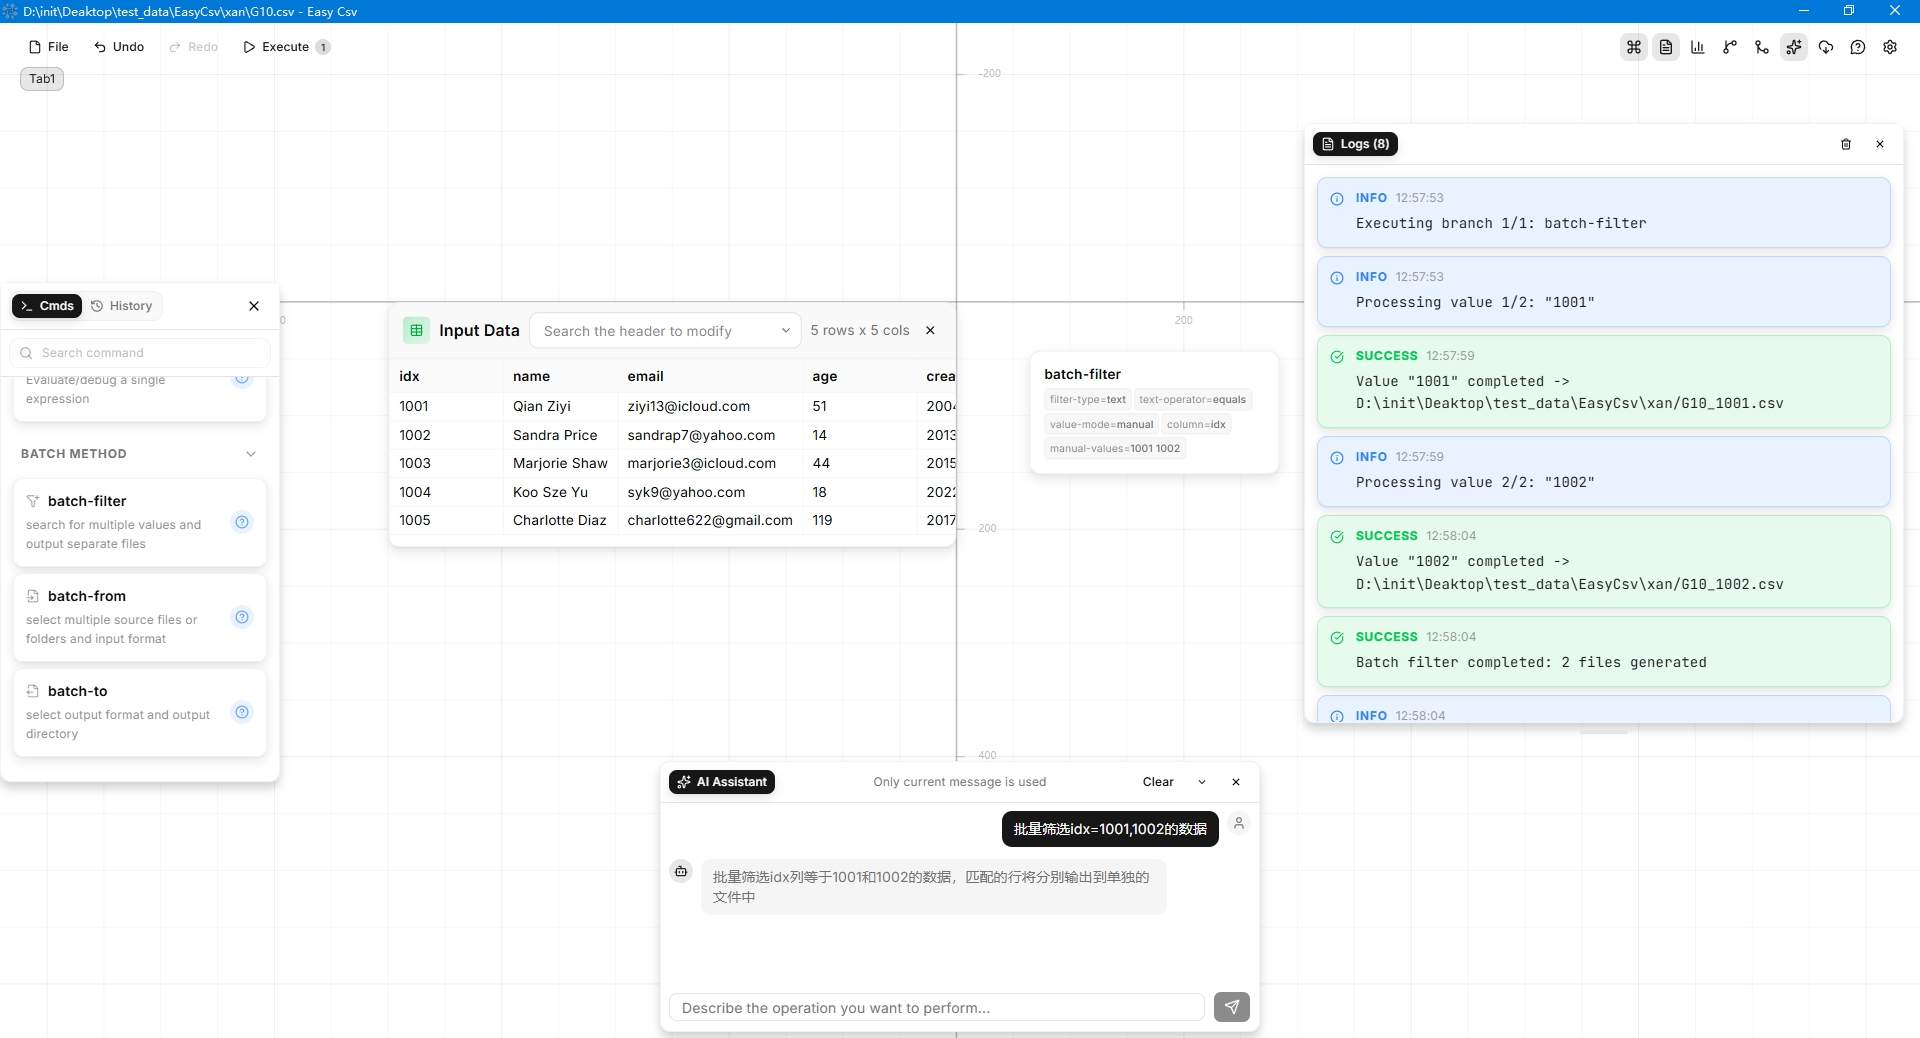
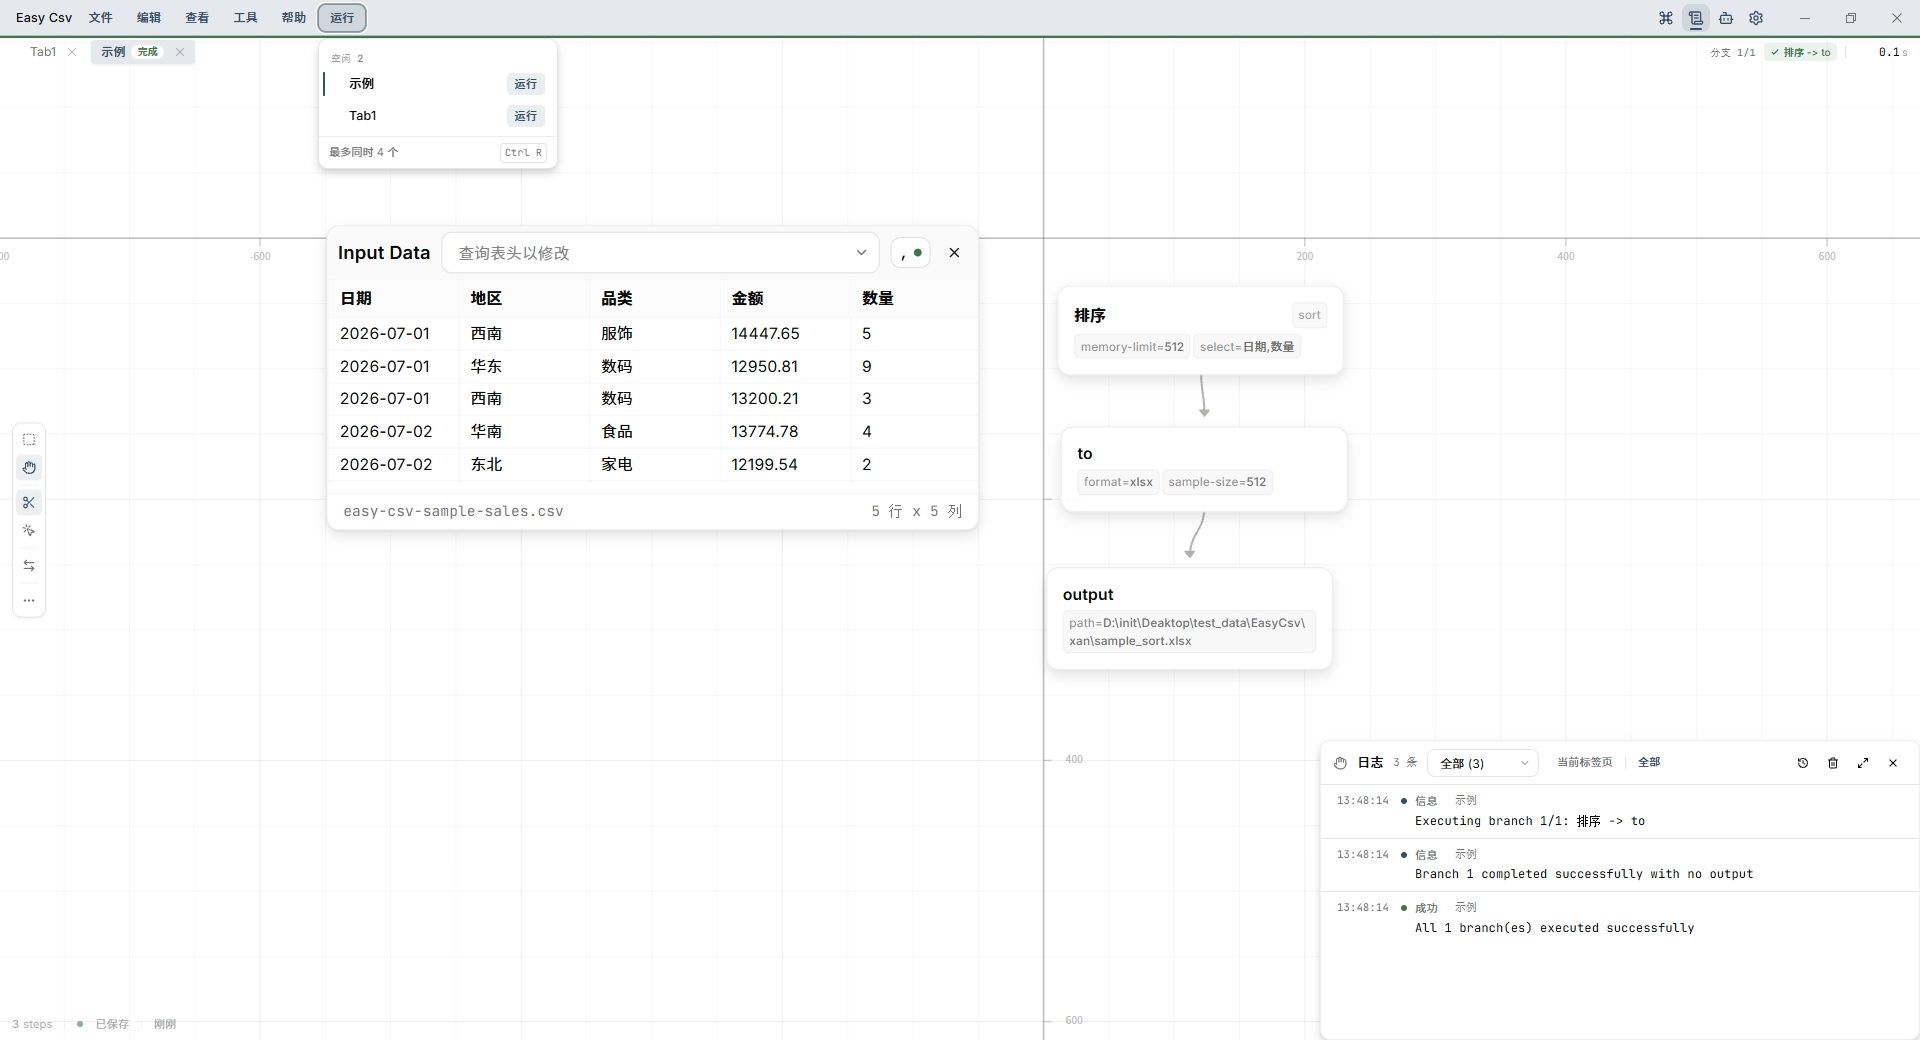
docs(readme): sync feature docs and screenshots with latest UI

diff --git a/README.md b/README.md
@@ -48,16 +48,19 @@ Notes:
 
 ## Features
 
-- **Visual pipeline editor** - drag, connect and configure xan commands on a node canvas (dagre auto-layout, cut/fall animations, undo/redo, copy/paste)
+- **Visual pipeline editor** - drag, connect and configure xan commands on a node canvas (dagre auto-layout, cut/fall animations, undo/redo, copy/paste, tidy / fit / zoom / lock tools, left-button select or pan, mouse-button swap)
 - **61 built-in xan commands** - from basic `sort` / `filter` / `select` to `pivot`, `window`, `join`, `stats`, `split`, `partition`, `to` / `from` conversion and more, each with a dedicated configuration dialog
-- **AI assistant** - describe what you want in natural language (Chinese/English), and the assistant generates ready-to-insert pipeline steps via DeepSeek / Qwen, with RAG over per-command docs
+- **Column quick actions** - right-click any header for search, empty-value handling (only / exclude / fill / blank repeated runs), deduplicate by column, text and number transforms, replace, date parsing, group aggregates, top N, pivot / window, and column actions (copy name or values, rename, delete, keep only); one-click actions land as pipeline steps
+- **Cleaning and conversion tools** - split bad rows, clean special characters, convert encoding, split by row count, enumerate within groups, CSV → Excel, merge workbooks, and diff two CSVs
+- **Charts** - line, scatter, bar, histogram, pie, heatmap and word-cloud views, with SVG export
+- **AI assistant** - describe what you want in natural language (Chinese/English), and the assistant generates ready-to-insert pipeline steps via DeepSeek / Qwen / GLM, with saved conversation sessions (history list, rename, delete) and RAG over per-command docs
 - **Expression editor** - syntax highlighting and autocomplete for 200+ [Moonblade](https://github.com/medialab/xan) functions
-- **Batch operations** - batch filter (split one CSV into many files by column value) and batch format conversion (CSV ↔ XLSX ↔ JSON)
+- **Batch search** - split one CSV into many files by column value, plus batch format conversion (CSV ↔ XLSX ↔ JSON)
 - **Data profiling** - one-click column statistics (count, nulls, min/max/mean, etc.) via `xan stats`
 - **Built-in templates** - the template library ships with starting points (a runnable sample pipeline, quick clean-up, profiling, grouping, sort + top N)
 - **Pipeline versioning** - save / restore / delete pipeline versions with tags
 - **Data lineage** - track how columns transform through your pipeline
-- **Execution log** - per-step output inspection and copy
+- **Run status and execution log** - a progress rail along the canvas top and an elapsed-time readout in the tab row, with cancel; the log panel opens automatically and keeps per-step output
 - **Bilingual UI** - English / Chinese / system language, plus dark/light/system themes
 
 ## Prerequisites
@@ -68,7 +71,7 @@ Notes:
 
 ## Build from source
 
-1. Place a Windows `xan.exe` binary in `src-tauri/resources/` - it is embedded into the binary at compile time and extracted on first run (see `src-tauri/src/xan.rs`). You can build it with `cargo build --release` from the [xan](https://github.com/medialab/xan) source, or download a pre-built binary from [xan releases](https://github.com/medialab/xan/releases).
+1. Provide an `xan` binary for local development: put `xan.exe` in `src-tauri/resources/plugins/windows-x86_64/` (the app also looks on `PATH`). Release installers do not bundle it - users install `xan` once from **Settings → Plugins**. You can build it with `cargo build --release` from the [xan](https://github.com/medialab/xan) source, or download a pre-built binary from [xan releases](https://github.com/medialab/xan/releases).
 2. Install project dependencies:
 
 ```bash
@@ -97,10 +100,10 @@ pnpm test:watch  # watch mode
 ## Usage
 
 1. **Open a CSV** - drag & drop a file onto the window, or use `Ctrl+O`. Nothing to hand yet? Click **See an example** on the welcome screen for a sample dataset plus a pipeline that already runs.
-2. **Add a step** - press `Alt+C` for the command panel (it is hidden by default) and click any of the 61 xan commands; or press `Alt+A` and describe what you need, letting the assistant build the step.
+2. **Add a step** - press `Alt+C` for the command panel (it is hidden by default) and click any of the 61 xan commands; or **right-click a column header** for quick actions such as search, fill empty cells, deduplicate by that column, or group aggregates. Press `Alt+A` to describe what you need and let the assistant build the step.
 3. **Pipelines and branches** - a new step becomes **its own branch** and applies straight to the input, so it runs without being connected. To chain two steps, **right-press on an operation node** and drag onto the target (the connection must start on an operation node; the canvas's gesture card lists the rest).
 4. **Configure parameters** - click the gear icon on a step card, or double-click the node.
-5. **Execute** - press `Ctrl+R`. The log panel opens automatically when a run starts and holds every step's output; a toast at the top reports the finish.
+5. **Execute** - press `Ctrl+R`. A progress rail runs along the canvas top, while the tab row reports the current branch, step and elapsed time with a cancel action. The log panel opens automatically when a run starts and holds every step's output.
 6. **Export** - add a `to` or `output` step to write results to disk. `Ctrl+S` / `Ctrl+E` save and export the pipeline itself, and the template library (`Ctrl+T`) ships with built-in starting points.
 
 ### Keyboard shortcuts
@@ -110,8 +113,10 @@ pnpm test:watch  # watch mode
 | `Ctrl+O` / `Ctrl+N` | Open file / open file in new tab |
 | `Ctrl+S` / `Ctrl+E` | Save / export pipeline |
 | `Ctrl+I` | Import pipeline |
+| `Ctrl+T` | Template library |
 | `Ctrl+Z` / `Ctrl+Y` | Undo / redo |
 | `Ctrl+R` | Execute pipeline |
+| `F5` | Refresh input file |
 | `Shift+H` / `Shift+C` / `Shift+S` | Help / check update / settings |
 | `Alt+C` / `Alt+Q` / `Alt+A` | Commands / logs / AI panel |
 
@@ -127,12 +132,12 @@ Supported providers:
 | Qwen | `qwen-turbo`, `qwen-max`, `qwen3.7-plus` |
 | GLM | `glm-4.7-flash`, `glm-4-flash-250414`, `glm-4-flash` |
 
-The assistant only uses your current message (not conversation history), and commands it generates are automatically connected to the last step in your pipeline.
+The assistant keeps each conversation as a session: open the history list from the AI panel to switch, rename, or delete one, and follow-up messages are answered with that session's context. Generated commands are automatically connected to the last step in your pipeline.
 
 ## Documentation
 
 - [docs/AI/INDEX.md](docs/AI/INDEX.md) - full architecture and codebase index (Rust backend, frontend, hooks, components, how to modify each area)
-- [docs/AI/USAGE.md](docs/AI/USAGE.md) - merged usage docs for all 58 xan commands
+- [docs/AI/USAGE.md](docs/AI/USAGE.md) - merged usage docs for the bundled xan commands
 - [src/docs/AI_usage/](src/docs/AI_usage) - generated per-command docs (source: `pnpm run generate-ai-usage`)
 - [src/docs/cmd/](src/docs/cmd) - per-command help docs (English)
 - [docs/cmd_zh/](docs/cmd_zh) - per-command help docs (Chinese)

diff --git a/README_ZH.md b/README_ZH.md
@@ -48,17 +48,20 @@
 
 ## 功能特性
 
-- **可视化管道编辑器** - 在节点画布上拖拽、连线、配置 xan 命令(dagre 自动布局、剪切/坠落动画、撤销/重做、复制/粘贴)
+- **可视化管道编辑器** - 在节点画布上拖拽、连线、配置 xan 命令(dagre 自动布局、剪切/坠落动画、撤销/重做、复制/粘贴, 以及整理 / 适应 / 缩放 / 锁定、左键框选或平移、左右键交换)
 - **61 个内置 xan 命令** - 从基础的 `sort` / `filter` / `select` 到 `pivot`、`window`、`join`、`stats`、`split`、`partition`、`to` / `from` 格式转换等, 每条命令都有专属配置对话框
-- **AI 助手** - 用自然语言(中文/英文)描述需求, 助手通过 DeepSeek / Qwen 生成可直接插入的管道步骤, 并对每条命令的文档做 RAG 检索
+- **列右键快捷操作** - 右键任意表头即可搜索、处理空值(只看 / 排除 / 填充 / 连续重复置空)、按列去重、文本与数字变换、替换、日期解析、分组统计、取前 N 行、透视 / 窗口, 以及复制列名或整列、重命名、删除、只保留; 一键动作直接落成管道步骤
+- **清洗与转换工具** - 拆分坏行、清除符号、转换编码、按行数拆分、组内编号、转为 Excel、合并工作簿、对比差异
+- **图表** - 折线、散点、柱状、直方图、饼图、热力图、词云, 支持导出 SVG
+- **AI 助手** - 用自然语言(中文/英文)描述需求, 助手通过 DeepSeek / Qwen / GLM 生成可直接插入的管道步骤; 会话会保存在本地, 可切换、重命名、删除, 并对每条命令的文档做 RAG 检索
 - **表达式编辑器** - 为 200+ 个 [Moonblade](https://github.com/medialab/xan) 函数提供语法高亮与自动补全
-- **批处理** - 批量筛选(按列值把一个 CSV 拆成多个文件)与批量格式转换(CSV ↔ XLSX ↔ JSON)
+- **批量搜索** - 按列值把一个 CSV 拆成多个文件, 以及批量格式转换(CSV ↔ XLSX ↔ JSON)
 - **数据概况** - 一键查看列统计(计数、空值、最小/最大/均值等), 底层是 `xan stats`
 - **内置模板** - 模板库自带起点(可直接运行的示例管道、快速清洗、数据概况、分组统计、排序取前 N)
 - **管道版本管理** - 带标签地保存 / 恢复 / 删除管道版本
 - **数据血缘** - 追踪列在管道中如何被一步步变换
-- **执行日志** - 逐步查看输出并复制
-- **双语界面** - English / 中文 /跟随系统语言, 外加深色 / 浅色 / 跟随系统主题
+- **运行状态与执行日志** - 画布上沿的进度线 + 标签行里的耗时读数与取消按钮; 日志面板在运行开始时自动打开, 保留每一步输出
+- **双语界面** - English / 中文 / 跟随系统语言, 外加深色 / 浅色 / 跟随系统主题
 
 ## 环境要求
 
@@ -68,7 +71,7 @@
 
 ## 从源码构建
 
-1. 把 Windows 的 `xan.exe` 放进 `src-tauri/resources/` - 编译时它会被嵌入二进制, 首次运行时解出(见 `src-tauri/src/xan.rs`). 可以用 [xan](https://github.com/medialab/xan) 源码 `cargo build --release` 自行构建, 或从 [xan releases](https://github.com/medialab/xan/releases) 下载预编译产物.
+1. 本地开发需要准备 `xan` 可执行文件: 把 `xan.exe` 放进 `src-tauri/resources/plugins/windows-x86_64/`(应用也会查找 `PATH`). 发布安装包不内置它 - 用户在**设置 → 插件**里一键安装一次即可. 可以用 [xan](https://github.com/medialab/xan) 源码 `cargo build --release` 自行构建, 或从 [xan releases](https://github.com/medialab/xan/releases) 下载预编译产物.
 2. 安装项目依赖:
 
 ```bash
@@ -97,10 +100,10 @@ pnpm test:watch  # 监听模式
 ## 使用说明
 
 1. **打开 CSV** - 把文件拖到窗口上, 或按 `Ctrl+O`. 手头还没有数据? 点欢迎页的 **看看示例**, 会载入一份示例数据以及一条已经能跑通的管道.
-2. **添加步骤** - 按 `Alt+C` 打开命令面板(默认隐藏), 点任意一条 xan 命令; 或按 `Alt+A` 描述需求, 让助手帮你生成步骤.
+2. **添加步骤** - 按 `Alt+C` 打开命令面板(默认隐藏), 点任意一条 xan 命令; 也可以**右键列头**使用快捷操作, 例如搜索、填充空值、按此列去重、分组统计. 或按 `Alt+A` 描述需求, 让助手帮你生成步骤.
 3. **管道与分支** - 新步骤会**自成一条分支**并直接作用于输入, 不连线也能跑. 要把两步串起来, 请**在操作节点上按住右键**拖到目标节点(连线必须从操作节点起手, 画布上的手势提示卡列出了其余规则).
 4. **配置参数** - 点步骤卡片上的齿轮图标, 或双击节点.
-5. **执行** - 按 `Ctrl+R`. 一次运行开始时日志面板会自动打开, 里面保留每一步的输出; 顶部会提示运行结束.
+5. **执行** - 按 `Ctrl+R`. 画布上沿会显示进度线, 标签行会报告当前分支、步骤与耗时, 并带取消按钮. 一次运行开始时日志面板会自动打开, 里面保留每一步的输出.
 6. **导出** - 加一个 `to` 或 `output` 步骤即可把结果写到磁盘. `Ctrl+S` / `Ctrl+E` 用于保存与导出管道本身, 模板库(`Ctrl+T`)自带若干起点.
 
 ### 快捷键
@@ -110,8 +113,10 @@ pnpm test:watch  # 监听模式
 | `Ctrl+O` / `Ctrl+N` | 打开文件 / 在新标签页中打开文件 |
 | `Ctrl+S` / `Ctrl+E` | 保存 / 导出管道 |
 | `Ctrl+I` | 导入管道 |
+| `Ctrl+T` | 模板库 |
 | `Ctrl+Z` / `Ctrl+Y` | 撤销 / 重做 |
 | `Ctrl+R` | 执行管道 |
+| `F5` | 刷新输入文件 |
 | `Shift+H` / `Shift+C` / `Shift+S` | 帮助 / 检查更新 / 设置 |
 | `Alt+C` / `Alt+Q` / `Alt+A` | 命令面板 / 日志 / AI 面板 |
 
@@ -127,12 +132,12 @@ pnpm test:watch  # 监听模式
 | Qwen | `qwen-turbo`,  `qwen-max`,  `qwen3.7-plus` |
 | GLM | `glm-4.7-flash`,  `glm-4-flash-250414`,  `glm-4-flash` |
 
-助手只使用你当前这一条消息(不读对话历史), 生成的命令会自动接到管道里最后一个步骤之后.
+助手会把每段对话保存为一个会话: 在 AI 面板打开历史列表即可切换、重命名或删除, 后续消息会带着该会话的上下文回答. 生成的命令会自动接到管道里最后一个步骤之后.
 
 ## 文档
 
 - [docs/AI/INDEX.md](docs/AI/INDEX.md) - 完整的架构与代码库索引(Rust 后端、前端、hooks、组件, 以及每块该怎么改)
-- [docs/AI/USAGE.md](docs/AI/USAGE.md) - 58 条 xan 命令的合并使用文档
+- [docs/AI/USAGE.md](docs/AI/USAGE.md) - 内置 xan 命令的合并使用文档
 - [src/docs/AI_usage/](src/docs/AI_usage) - 生成的逐命令文档(来源:`pnpm run generate-ai-usage`)
 - [src/docs/cmd/](src/docs/cmd) - 逐命令帮助文档(英文)
 - [docs/cmd_zh/](docs/cmd_zh) - 逐命令帮助文档(中文)
